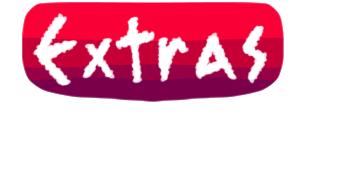
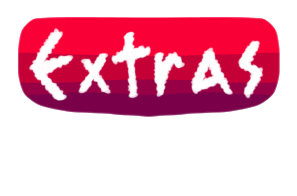
Fix Extras button crop cutting through its own border
Both button crops were plain rectangular slices of titlescreen_buttons.png,
picked by eyeballing a y-boundary between the two buttons. That boundary
turned out not to exist cleanly — New Game's drips scatter across nearly
the full width underneath it, at varying lengths, so no single horizontal
line separates "New Game" from "Extras" without either slicing through
Extras' own rounded top border (the reported bug: a flat "bar" where the
curve should be) or grabbing stray disconnected drip fragments.

Replaced the rectangular crop with a flood-fill: seed a point inside each
button's own fill and walk its actual connected alpha region, masking out
everything not connected to that seed before cropping to its true bbox.
This cleanly isolates each button's complete shape (border, fill, and its
own drips) regardless of how close the artwork sits to the other button.
Updated both buttons' position percentages in index.html to match their
corrected (slightly different) bounding boxes.

diff --git a/index.html b/index.html
@@ -10,8 +10,8 @@
   <div id="title-screen">
     <div id="title-stage">
       <img id="title-bg" src="assets/title_screen.png" alt="Containment">
-      <button type="button" id="btn-new-game" style="left:36.98%; top:42.13%; width:24.74%; height:20.83%;" aria-label="New Game"></button>
-      <button type="button" id="btn-extras" style="left:41.41%; top:63.43%; width:18.23%; height:16.94%;" aria-label="Extras"></button>
+      <button type="button" id="btn-new-game" style="left:37.19%; top:42.22%; width:24.32%; height:21.67%;" aria-label="New Game"></button>
+      <button type="button" id="btn-extras" style="left:41.61%; top:62.04%; width:15.47%; height:18.15%;" aria-label="Extras"></button>
     </div>
   </div>
 
